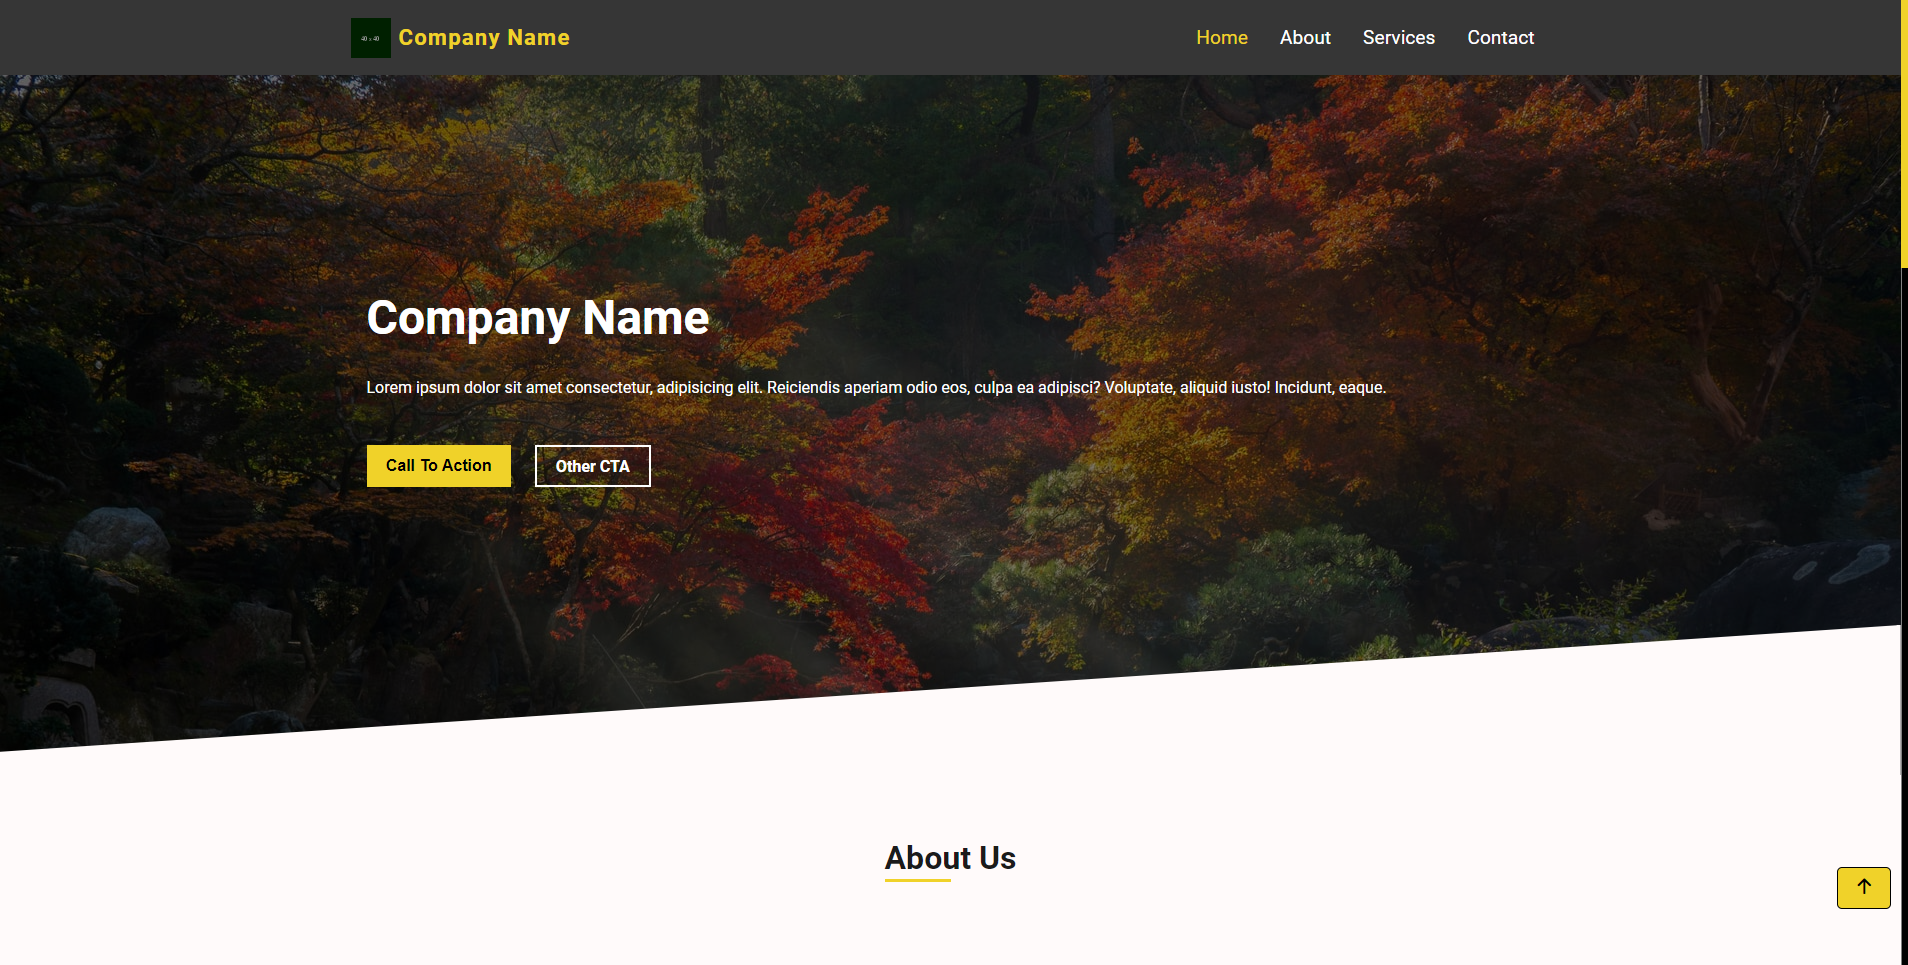
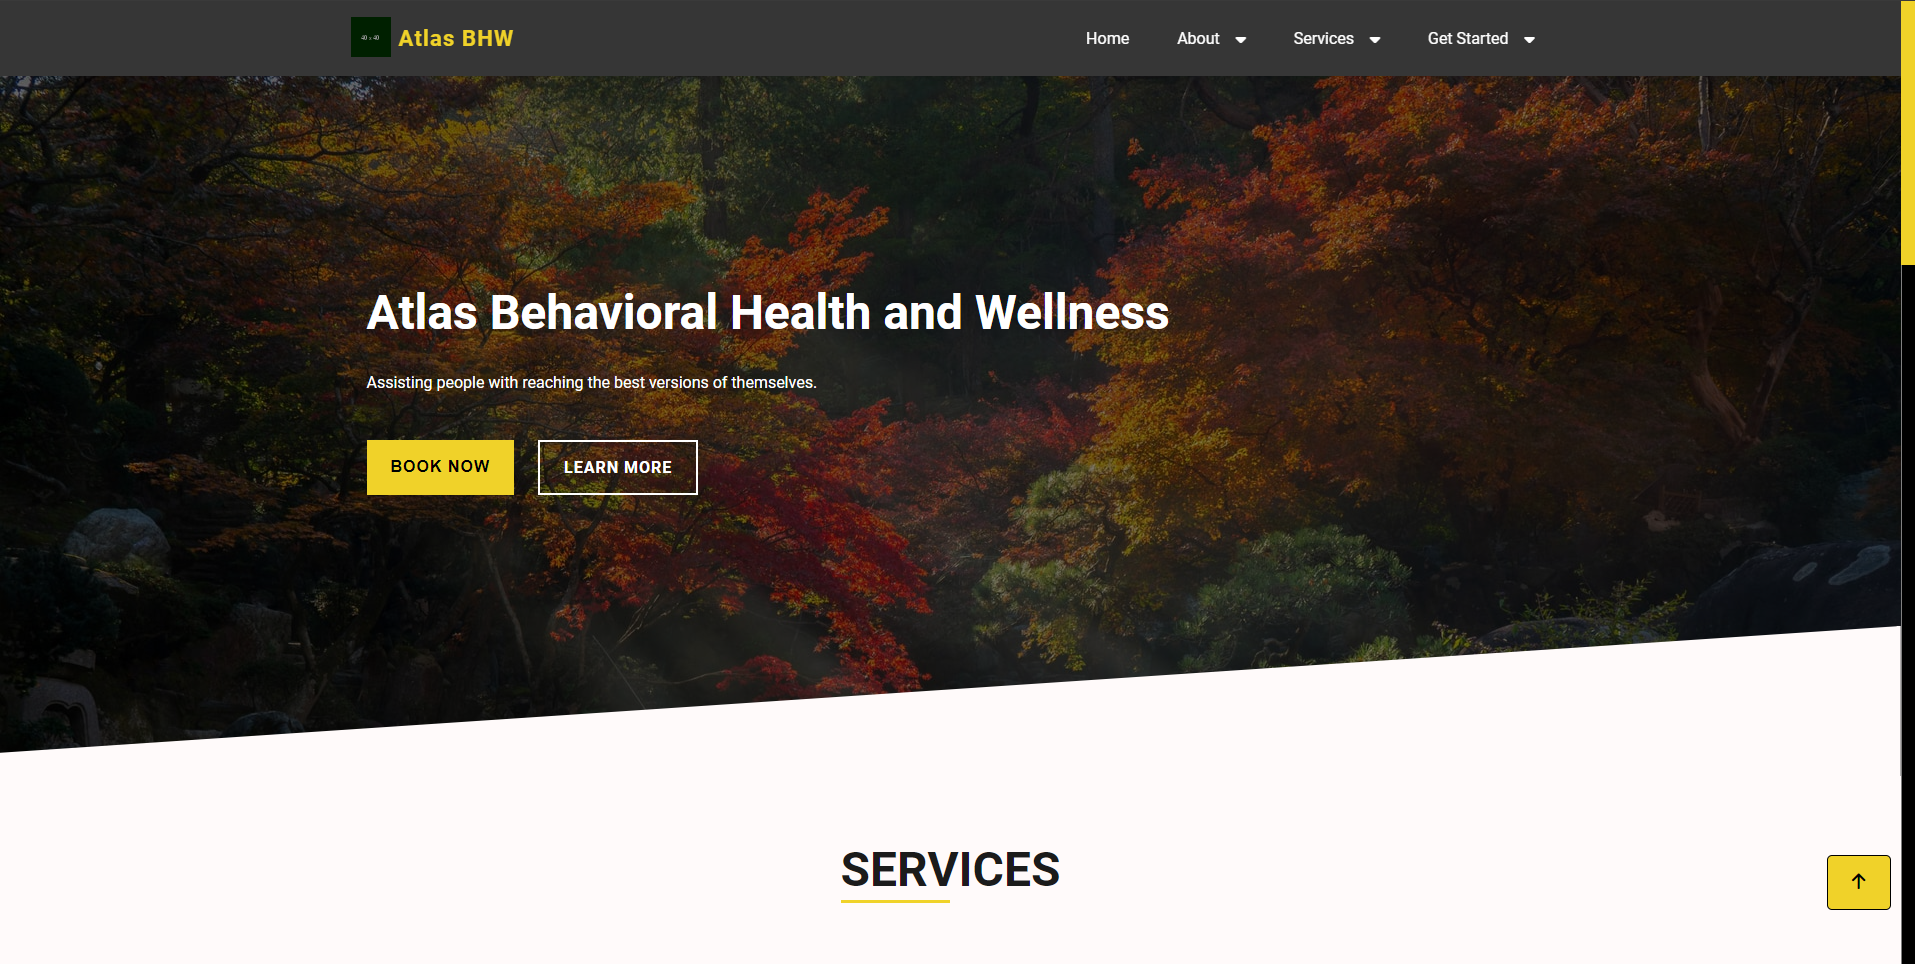
added site title and updated open graph image

diff --git a/pages/getstarted.html b/pages/getstarted.html
@@ -17,7 +17,7 @@
     <meta property="og:url" content="" />
     <meta name="twitter:image" content="g" />
     <meta name="twitter:image:alt" content="" />
-    <title>Services | Company Name</title>
+    <title>Get Started | Atlas Behavioral Health and Wellness</title>
     <link
       rel="stylesheet"
       href="https://cdnjs.cloudflare.com/ajax/libs/font-awesome/6.0.0-beta3/css/all.min.css"
@@ -82,10 +82,10 @@
               </a>
               <ul class="sub-links">
                 <li>
-                  <a href="services.html#individual" class="nav-link sub-link">Individual Therapy</a>
+                  <a href="individual.html" class="nav-link sub-link">Individual Therapy</a>
                 </li>
                 <li>
-                  <a href="services.html#assessments" class="nav-link sub-link"
+                  <a href="assessments.html" class="nav-link sub-link"
                     >Psychological Assessments</a
                   >
                 </li>
@@ -246,8 +246,8 @@
         </ul>
         <ul class="footer-links">
           <h4 class="footer-heading">Services</h4>
-          <li><a href="./pages/services.html" class="footer-link">Individual Therapy</a></li>
-          <li><a href="./pages/services.html" class="footer-link">Psychological Assessments</a></li>
+          <li><a href="individual.html" class="footer-link">Individual Therapy</a></li>
+          <li><a href="assessments.html" class="footer-link">Psychological Assessments</a></li>
         </ul>
         <ul class="footer-links">
           <h4 class="footer-heading">Get Started</h4>

diff --git a/styles/styles.css b/styles/styles.css
@@ -91,10 +91,11 @@ ul {
     display: inline-block;
     letter-spacing: 1px;
     text-transform: uppercase;
+    text-align: center;
 }
 
 .btn-primary {
-    color: var(--white);
+    color: var(--black);
     background: var(--accent-clr);
     color: var(--black);
     border: none;
@@ -155,11 +156,18 @@ ul {
 .title {
     margin-bottom: 2rem;
     text-align: center;
-    font-size: 3rem;
-    position: relative;
+    font-size: 2rem;
+     position: relative; 
     text-transform: uppercase;
-    letter-spacing: 1px;
+    
 }
+
+@media screen and (min-width: 767px) {
+    .title {
+        font-size: 3rem;
+    }
+}
+
 
 .title::after {
     content: '';
@@ -986,6 +994,10 @@ input[type="checkbox"] {
     margin-top: 2rem;
 }
 
+.bio .btn-primary {
+    color: var(--black);
+}
+
 @media screen and (min-width: 992px){
     .bio-section {
         flex-direction: row;
@@ -1040,11 +1052,14 @@ input[type="checkbox"] {
 
 .services-description {
     background:var(--white);
-    
     padding: 2rem;
     box-shadow: var(--box-shadow);
     max-width: 90vw;
 } 
+
+.services-description .btn-primary {
+    color: var(--black);
+}
 
 .individual {
     background: url(../images/individual.jpg) no-repeat center / cover;
@@ -1181,6 +1196,7 @@ input[type="checkbox"] {
 
 .cta .connect-heading {
     color: var(--black);
+    font-size: 1.5rem;
 }
 
 .services-cta .connect-heading {

diff --git a/pages/assessments.html b/pages/assessments.html
@@ -17,7 +17,7 @@
     <meta property="og:url" content="" />
     <meta name="twitter:image" content="g" />
     <meta name="twitter:image:alt" content="" />
-    <title>Services | Company Name</title>
+    <title>Psychological Assessments | Atlas Behavioral Health and Wellness</title>
     <link
       rel="stylesheet"
       href="https://cdnjs.cloudflare.com/ajax/libs/font-awesome/6.0.0-beta3/css/all.min.css"
@@ -208,7 +208,7 @@
       <!-- call to action -->
       <section class="services-cta cta">
         <h3 class="connect-heading">
-          Are you ready to become the best version of yourself?
+          Are you in need of an assessment?  Let us help with that!
         </h3>
         <a href="" class="cta-btn btn btn-primary">Book Now</a>
       </section>

diff --git a/pages/individual.html b/pages/individual.html
@@ -17,7 +17,7 @@
     <meta property="og:url" content="" />
     <meta name="twitter:image" content="g" />
     <meta name="twitter:image:alt" content="" />
-    <title>Services | Company Name</title>
+    <title>Individual Therapy | Atlas Behavioral Health and Wellness</title>
     <link
       rel="stylesheet"
       href="https://cdnjs.cloudflare.com/ajax/libs/font-awesome/6.0.0-beta3/css/all.min.css"

diff --git a/pages/about.html b/pages/about.html
@@ -17,7 +17,7 @@
     <meta property="og:url" content="" />
     <meta name="twitter:image" content="g" />
     <meta name="twitter:image:alt" content="" />
-    <title>About | Company Name</title>
+    <title>About | Atlas Behavioral Health and Wellness</title>
     <link
       rel="stylesheet"
       href="https://cdnjs.cloudflare.com/ajax/libs/font-awesome/6.0.0-beta3/css/all.min.css"
